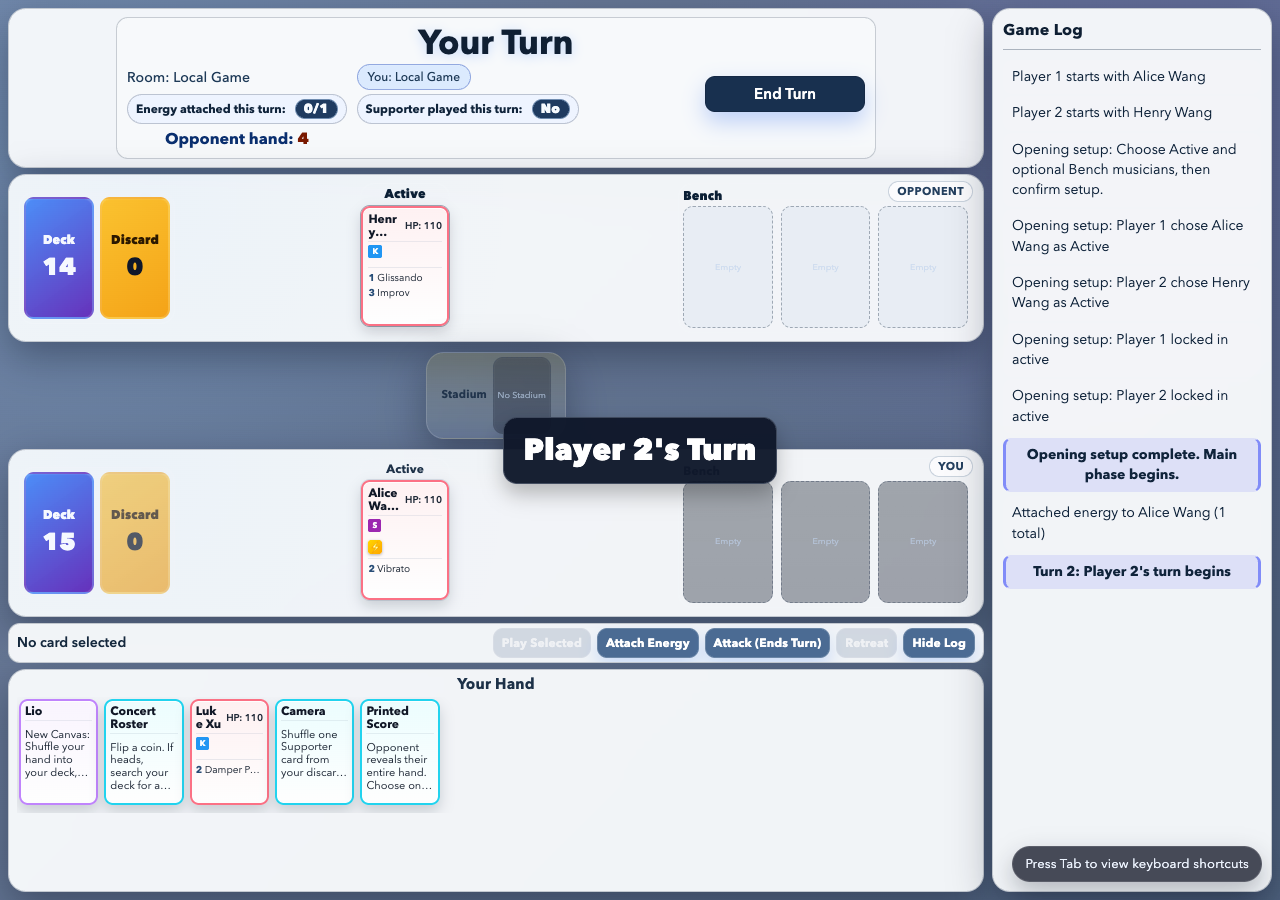
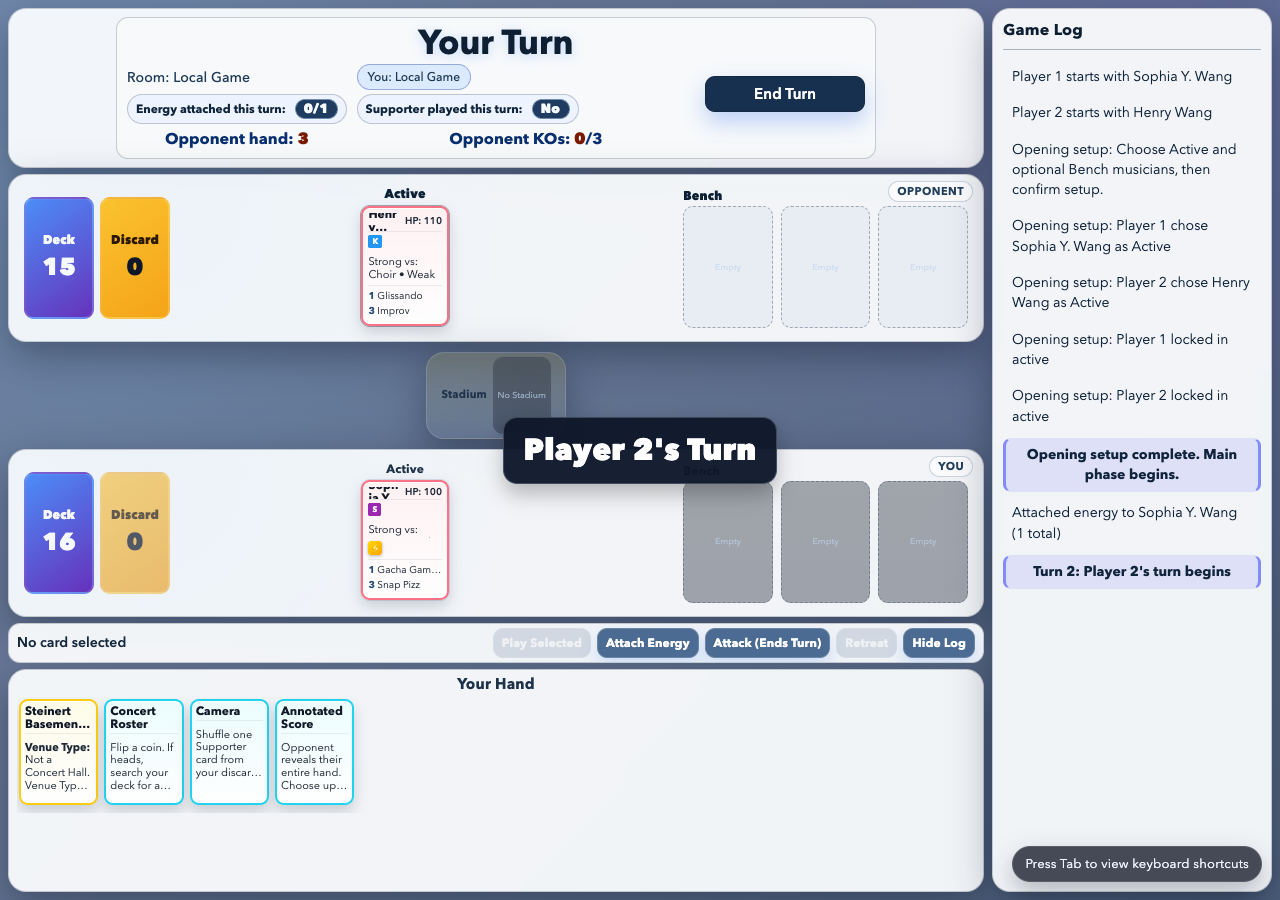
push

diff --git a/game.js b/game.js
@@ -38,6 +38,32 @@ function abilitiesDisabledFor(playerNum) {
     return (game.abilitiesDisabledThisTurn === playerNum) || (game.nextTurnEffects[playerNum] && game.nextTurnEffects[playerNum].abilitiesDisabled);
 }
 
+function getTypeMatchupInfo(types) {
+    const normalizedTypes = Array.isArray(types) ? types.filter(Boolean) : [];
+    const strongSet = new Set();
+    const weakSet = new Set();
+    normalizedTypes.forEach((type) => {
+        const strongVs = SUPER_EFFECTIVE_CHAIN[type];
+        if (strongVs) strongSet.add(strongVs);
+        Object.keys(SUPER_EFFECTIVE_CHAIN).forEach((attackerType) => {
+            if (SUPER_EFFECTIVE_CHAIN[attackerType] === type) {
+                weakSet.add(attackerType);
+            }
+        });
+    });
+    return {
+        strongTo: Array.from(strongSet),
+        weakTo: Array.from(weakSet)
+    };
+}
+
+function formatTypeMatchupLine(types) {
+    const matchup = getTypeMatchupInfo(types);
+    const strongText = matchup.strongTo.length ? matchup.strongTo.join(', ') : 'None';
+    const weakText = matchup.weakTo.length ? matchup.weakTo.join(', ') : 'None';
+    return `Strong vs: ${strongText} • Weak to: ${weakText}`;
+}
+
 function syncStatusDerivedStatsForCharacter(character) {
     if (!character) return;
     if (!Number.isFinite(character.baseHp)) {
@@ -833,11 +859,7 @@ class GameState {
         for (let i = 0; i < count; i++) {
             if (player.deck.length === 0) {
                 this.log(`Player ${playerNum} has no cards left to draw!`, 'warning');
-                // Deck-out loss condition
-                const winner = playerNum === 1 ? 2 : 1;
-                this.log(`Player ${playerNum} loses: deck is empty!`, 'error');
-                this.endGame(winner, `opponent decked out`);
-                return;
+                break;
             }
             const card = player.deck.shift();
             player.hand.push(card);
@@ -2277,8 +2299,8 @@ function initGame(deck1Name = 'strings-aggro', deck2Name = 'piano-control', play
     ensureStartingMusician(2);
 
     // Draw starting hands (including the guaranteed musician)
-    game.drawCards(1, 4); // Draw 4 more to make 5 total
-    game.drawCards(2, 4);
+    game.drawCards(1, 3); // Draw 3 more to make 4 total
+    game.drawCards(2, 3);
 
     game.phase = 'setup';
     updateUI();
@@ -3111,6 +3133,7 @@ function renderCard(card) {
             <div class="card-type">
                 ${card.type.map(t => `<span class="type-icon type-${t.toLowerCase().replace(' ', '-')}">${getCostSymbol(t)}</span>`).join('')}
             </div>
+            <div class="card-effect" style="font-size: 9px; margin-top: 3px;">${formatTypeMatchupLine(card.type)}</div>
         `;
 
         if (retreatDelta !== 0 || tempEnergyBonus > 0) {
@@ -3514,14 +3537,24 @@ function showCardActions(card, targetPlayerNum, options = {}) {
         html += `<p style="color: gray;">Energy cards are no longer used.</p>`;
     } else if (card.cardType === 'item' || card.cardType === 'tool') {
         if (canPlayAnytime) {
-            html += `<button class="action-btn" onclick="playItem('${card.id}')">Play Item</button>`;
+            const turnRestriction = canPlayCardOnCurrentTurn(card);
+            if (turnRestriction.ok) {
+                html += `<button class="action-btn" onclick="playItem('${card.id}')">Play Item</button>`;
+            } else {
+                html += `<p style="color: red;">${turnRestriction.reason}</p>`;
+            }
         } else {
             html += `<p style="color: red;">Can only play items during Main Phase</p>`;
         }
     } else if (card.cardType === 'supporter') {
         if (canPlayAnytime) {
             if (!game.supporterPlayedThisTurn) {
-                html += `<button class="action-btn" onclick="playSupporter('${card.id}')">Play Supporter</button>`;
+                const turnRestriction = canPlayCardOnCurrentTurn(card);
+                if (turnRestriction.ok) {
+                    html += `<button class="action-btn" onclick="playSupporter('${card.id}')">Play Supporter</button>`;
+                } else {
+                    html += `<p style="color: red;">${turnRestriction.reason}</p>`;
+                }
             } else {
                 html += `<p style="color: red;">Already played a Supporter this turn</p>`;
             }
@@ -3534,7 +3567,12 @@ function showCardActions(card, targetPlayerNum, options = {}) {
                 html += `<p style="color: red;">Cannot play stadiums this turn (BAI Email)</p>`;
             }
         } else if (canPlayAnytime) {
-            html += `<button class="action-btn" onclick="playStadium('${card.id}')">Play Stadium</button>`;
+            const turnRestriction = canPlayCardOnCurrentTurn(card);
+            if (turnRestriction.ok) {
+                html += `<button class="action-btn" onclick="playStadium('${card.id}')">Play Stadium</button>`;
+            } else {
+                html += `<p style="color: red;">${turnRestriction.reason}</p>`;
+            }
         } else {
             html += `<p style="color: red;">Can only play stadiums during Main Phase</p>`;
         }
@@ -3645,6 +3683,7 @@ function renderCardBrowser() {
 
             if (cardBrowserCurrentType === 'character') {
                 html += `<div class="pool-card-effect">HP: ${card.hp || 0}${card.type ? ` • Type: ${card.type.join(', ')}` : ''}</div>`;
+                html += `<div class="pool-card-effect">${formatTypeMatchupLine(card.type)}</div>`;
                 if (Array.isArray(card.moves) && card.moves.length) {
                     card.moves.forEach((move) => {
                         html += `<div class="pool-card-effect"><strong>${move.name}</strong> (${move.cost || 0}): ${move.damage || 0} dmg${move.effect ? ` • ${move.effect}` : ''}</div>`;
@@ -3980,6 +4019,34 @@ function canAddToBench(player) {
     return benchCount < 2;
 }
 
+function isPlayerOneFirstTurn() {
+    return game.isFirstTurn && game.currentPlayer === 1;
+}
+
+const FIRST_TURN_RESTRICTED_CARD_NAMES = new Set([
+    'Main Hall',
+    'Otamatone',
+    'Miku Otamatone',
+    'Printed Score',
+    'Annotated Score',
+    'Michelle'
+]);
+
+function isFirstTurnRestrictedCard(card) {
+    if (!card || !card.name) return false;
+    return isPlayerOneFirstTurn() && FIRST_TURN_RESTRICTED_CARD_NAMES.has(card.name);
+}
+
+function canPlayCardOnCurrentTurn(card) {
+    if (isFirstTurnRestrictedCard(card)) {
+        return {
+            ok: false,
+            reason: `${card.name} cannot be played on Player 1's first turn.`
+        };
+    }
+    return { ok: true, reason: '' };
+}
+
 function logMainHallRemaining() {
     if (!game.stadium || game.stadium.name !== 'Main Hall') return;
     if (game.mainHallActivatedTurn === null) return;
@@ -4079,6 +4146,11 @@ function playItem(cardId) {
     const card = player.hand.find(c => c.id === cardId);
 
     if (!card) return;
+    const turnRestriction = canPlayCardOnCurrentTurn(card);
+    if (!turnRestriction.ok) {
+        game.log(turnRestriction.reason, 'info');
+        return;
+    }
 
     if (!canPlayCardThisTurn()) {
         game.log('Main Hall: Cannot play more than 3 cards per turn', 'info');
@@ -7407,6 +7479,11 @@ function playSupporter(cardId) {
     const card = player.hand.find(c => c.id === cardId);
 
     if (!card || game.supporterPlayedThisTurn) return;
+    const turnRestriction = canPlayCardOnCurrentTurn(card);
+    if (!turnRestriction.ok) {
+        game.log(turnRestriction.reason, 'info');
+        return;
+    }
 
     if (!canPlayCardThisTurn()) {
         game.log('Main Hall: Cannot play more than 3 cards per turn', 'info');
@@ -7561,6 +7638,11 @@ function playStadium(cardId) {
     const card = player.hand.find(c => c.id === cardId);
 
     if (!card) return;
+    const turnRestriction = canPlayCardOnCurrentTurn(card);
+    if (!turnRestriction.ok) {
+        game.log(turnRestriction.reason, 'info');
+        return;
+    }
 
     if (game.stadiumLockUntilTurn && game.turn > game.stadiumLockUntilTurn) {
         game.stadiumLockUntilTurn = null;

diff --git a/cards.js b/cards.js
@@ -923,8 +923,8 @@ const STADIUMS = {
         name: 'Main Hall',
         type: 'stadium',
         isConcertHall: true,
-        effect: 'Each player may only play up to three cards per turn, starting the turn after this is played.',
-        description: 'Venue Type: Concert Hall. Small Ensemble Limit: Each player may only play up to three cards per turn, starting the turn after this is played.'
+        effect: 'Each player may only play up to three cards per turn, starting the turn after this is played. May not be played on the first turn.',
+        description: 'Venue Type: Concert Hall. Small Ensemble Limit: Each player may only play up to three cards per turn, starting the turn after this is played. May not be played on the first turn.'
     },
     SALOMON_DECI: {
         name: 'Salomon DECI',
@@ -1052,13 +1052,13 @@ const ITEMS = {
         name: 'Printed Score',
         type: 'item',
         subtype: 'sheet_music',
-        effect: 'Opponent reveals their entire hand. Choose one to discard.'
+        effect: 'Opponent reveals their entire hand. Choose one to discard. Cannot be played on the first turn.'
     },
     ANNOTATED_SCORE: {
         name: 'Annotated Score',
         type: 'item',
         subtype: 'sheet_music',
-        effect: 'Opponent reveals their entire hand. Choose up to two cards to shuffle back into their deck.'
+        effect: 'Opponent reveals their entire hand. Choose up to two cards to shuffle back into their deck. Cannot be played on the first turn.'
     },
     MUSESCORE_FILE: {
         name: 'Standard Musescore File',
@@ -1156,7 +1156,7 @@ const SUPPORTERS = {
     MICHELLE: {
         name: 'Michelle',
         type: 'supporter',
-        effect: 'Discord Announcement: Opponent discards down to 1 card in hand.'
+        effect: 'Discord Announcement: Opponent discards down to 1 card in hand. Cannot be played on the first turn.'
     },
     WILL: {
         name: 'Will',

diff --git a/progress.md b/progress.md
@@ -837,3 +837,67 @@ Notes:
   - `node --check output/opponent_hand_counter_test.mjs` ✅
   - `node output/opponent_hand_counter_test.mjs` ✅
   - `node output/custom_deck_multiplayer_regression_test.mjs` ✅
+
+2026-03-06 (Ominous Chimes multiplayer sync fix)
+- User report: in multiplayer, Ominous Chimes effects were not reliably visible to the opponent (attack not seen / Pascal not removed).
+- Root cause identified in client seq handling:
+  - Server emits `ACTION_BROADCAST` and `STATE_UPDATE` with the same `serverSeq`.
+  - Client previously dropped both action/state messages when `incomingSeq <= currentSeq`.
+  - After processing `ACTION_BROADCAST`, equal-seq `STATE_UPDATE` was discarded, so clients could miss authoritative post-action state when remote replay was partial.
+- Fix in `game.js`:
+  - Split out-of-order checks by message type:
+    - `ACTION_BROADCAST`: ignore when `incomingSeq <= currentSeq` (unchanged intent)
+    - `STATE_UPDATE`: ignore only when `incomingSeq < currentSeq` (allow equal-seq authoritative state updates)
+- Added focused regression:
+  - `output/ominous_chimes_multiplayer_regression_test.mjs`
+  - Verifies in real 2-client multiplayer that after `Ominous Chimes` from Pascal:
+    - opponent client sees Pascal removed from attacker active slot,
+    - opponent client sees Ominous Chimes log text synced.
+- Validation:
+  - `node --check game.js` ✅
+  - `node --check output/ominous_chimes_multiplayer_regression_test.mjs` ✅
+  - `node output/ominous_chimes_multiplayer_regression_test.mjs` ✅
+  - `node output/basic_multiplayer_game_test.mjs` ✅
+- Note:
+  - `custom_deck_multiplayer_regression_test.mjs` timed out in this pass (setup/main-phase harness flake), while targeted Ominous + baseline multiplayer flow passed.
+
+2026-03-08 (rules + description update pass)
+- Implemented requested core rules updates:
+  1. Empty deck no longer causes deck-out loss on draw; draw attempts now stop with a warning.
+  2. Starting hand size reduced to 4 cards total (guaranteed character + 3 draws).
+  3. Added first-turn restrictions for Player 1's first turn via centralized gate:
+     - Main Hall
+     - Otamatone
+     - Miku Otamatone
+     - Printed Score
+     - Annotated Score
+     - Michelle
+  4. Added type matchup text for character cards in UI:
+     - `Strong vs: ... • Weak to: ...`
+     - shown on in-game card render and in card browser character entries.
+- Card text updates in `cards.js`:
+  - Main Hall now includes first-turn play restriction in effect/description.
+  - Printed Score and Annotated Score now include first-turn play restriction in effect text.
+  - Michelle now includes first-turn play restriction in effect text.
+- Gameplay/UI wiring in `game.js`:
+  - Added helpers: `isPlayerOneFirstTurn`, `isFirstTurnRestrictedCard`, `canPlayCardOnCurrentTurn`.
+  - Applied turn-restriction checks to `playItem`, `playSupporter`, `playStadium`.
+  - Selection modal now shows restriction message instead of play button when blocked.
+  - `drawCards` no longer ends the game when deck is empty.
+  - `initGame` start draws changed from 4 to 3 (to total 4 cards after guaranteed character).
+  - Added type-matchup formatting helpers and render hooks.
+- New regression coverage:
+  - Added `output/rules_update_regression_test.mjs` covering:
+    - 4-card starting hand
+    - first-turn restricted card blocking
+    - no game over on empty-deck draw
+    - visible Strong/Weak matchup text on character cards
+- Validation:
+  - `node --check game.js` ✅
+  - `node --check cards.js` ✅
+  - `node --check output/rules_update_regression_test.mjs` ✅
+  - `node output/rules_update_regression_test.mjs` ✅
+  - `node output/basic_multiplayer_game_test.mjs` ✅
+  - `node output/ui_smoke_test.mjs` ✅
+  - `node output/opponent_hand_counter_test.mjs` ✅
+  - `node output/custom_deck_multiplayer_regression_test.mjs` ⚠ timed out waiting for main phase (existing harness flake seen in prior passes)
